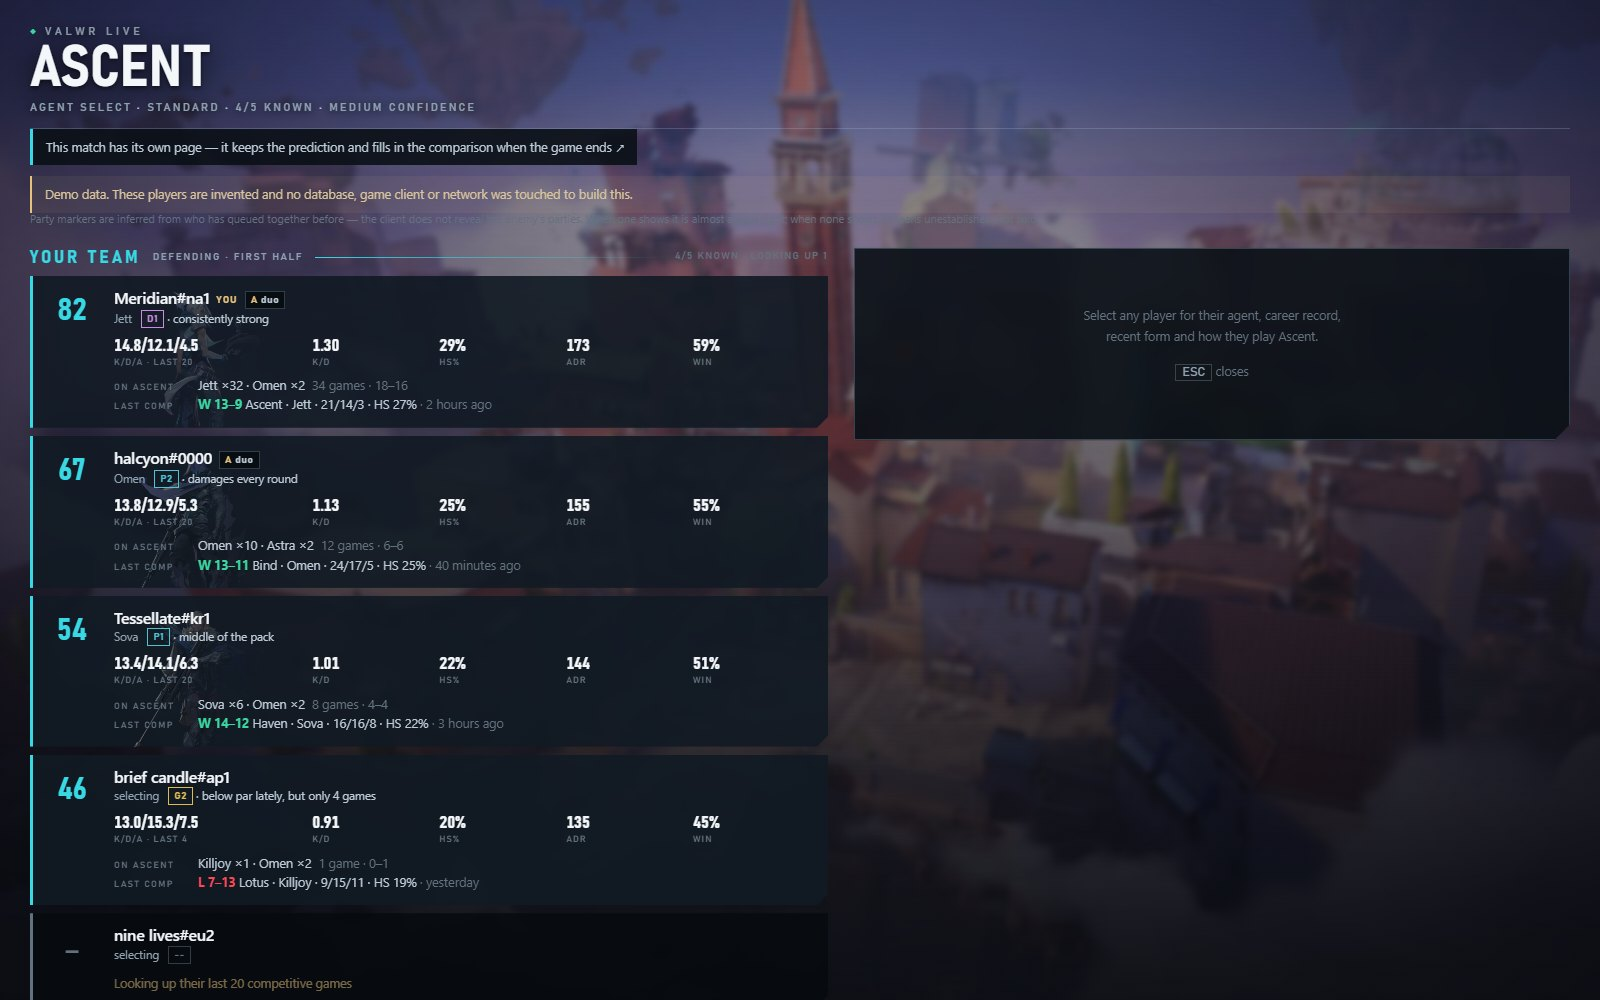
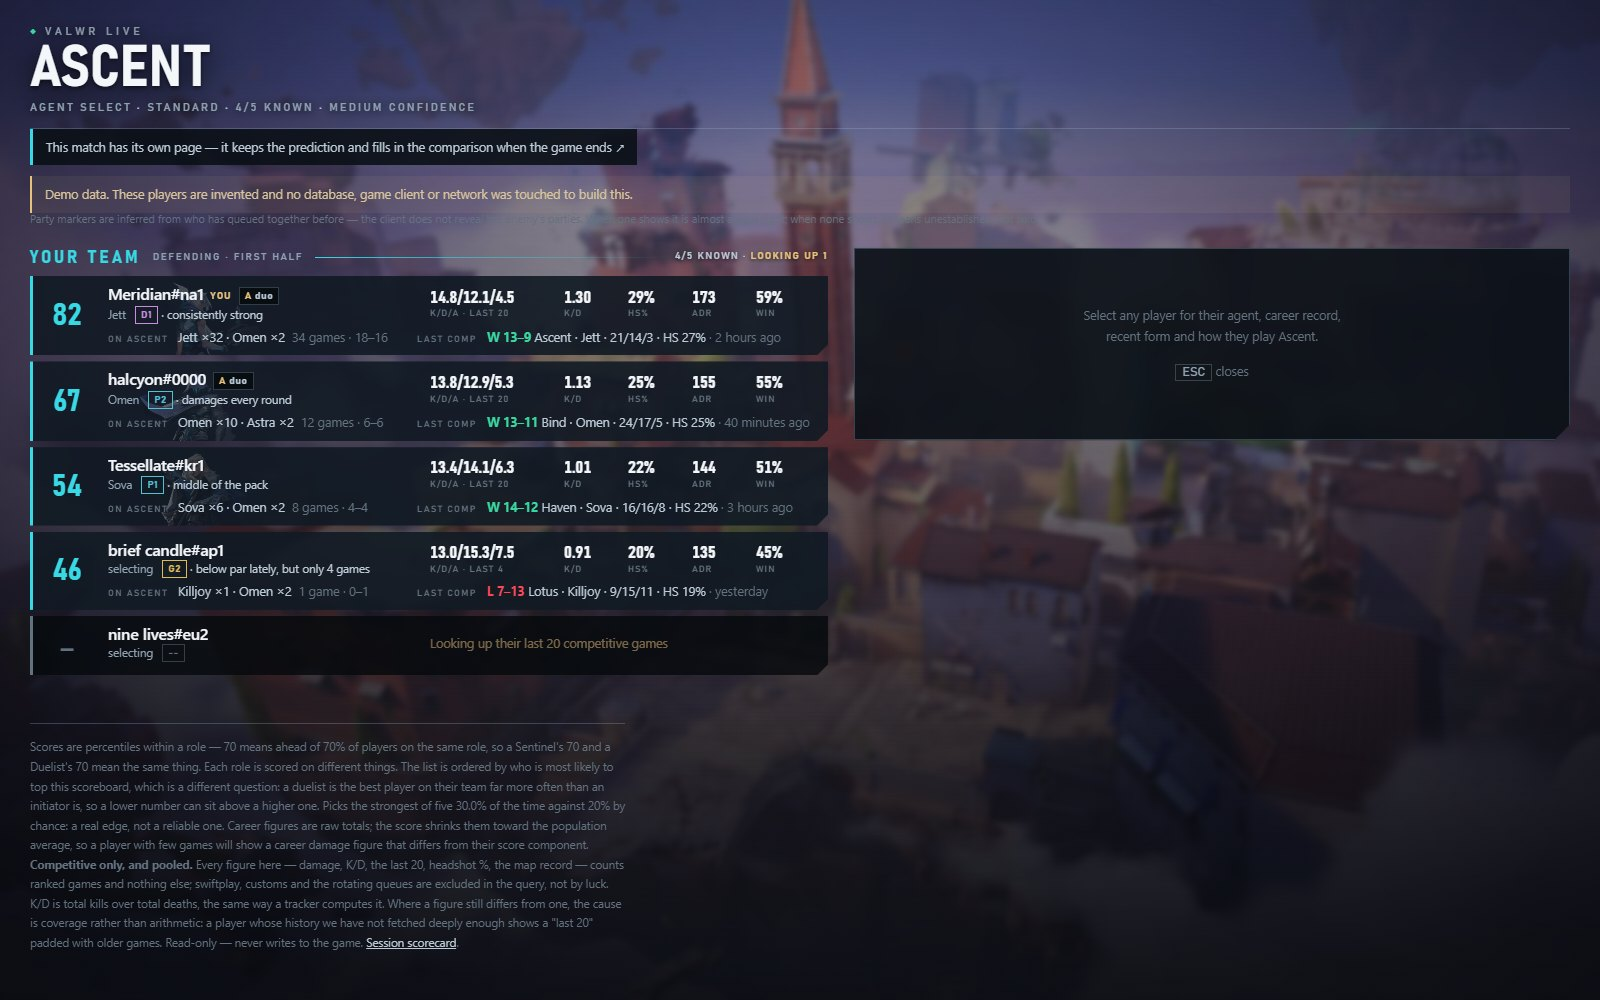
Fit all five agent-select cards on a 1080p screen without scrolling
Each card stacked every line and ran 152px, so the fifth player sat 56px
below the fold of a maximised 1920x1080 browser -- in the minute there
is to lock in, the one place a scroll costs something.

A card is now two rows: who they are beside their last-20 numbers, then
this map beside their last game. 80px a card; all five end 675px down
the page, inside a 1080p window with 275px to spare, and inside 800px
with room for a bookmarks bar or a window not quite maximised. The
numbers sit in fixed columns, so K/D on one card is directly above K/D
on the next and a column reads straight down. A player still being
looked up shows that where their numbers will appear, at the same width.

Two things the layout work turned up:

- The team bar's "looking up 1" was the scoreboard's dim grey over the
  brightest part of the map art, and close to invisible. In agent select
  it is light, shadowed, and gold while anyone is still loading.
- On narrow screens a scoreboard rule pinned every stat cell to one row,
  which collapsed a card's five numbers into one line with two 20px
  columns. The card grid now places its own cells.

tools/capture_dashboard.py refuses to capture if all five stop fitting a
1920x800 or 2560x1300 window, or if anything on a card is clipped at any
width it checks; test/test_layout_fit.py runs the same check in a real
browser, and skips where there is none, as in CI.

Changed region(s): [[0.0, 0.279, 0.5312, 0.992], [0.4375, 0.248, 0.5, 0.31], [0.4375, 0.806, 0.4688, 0.837]]

diff --git a/valwr/dash/static/index.html b/valwr/dash/static/index.html
@@ -351,11 +351,26 @@ table.pstats td.mute,.pstats .mute{color:var(--ghost)}
 
 /* ---------- agent select: one card per teammate --------------------------
    About a minute to lock in, and the enemy is not visible yet, so the screen
-   goes to the people on your side with every number showing at once. */
-.cards{display:grid;gap:8px}
-.pcard{position:relative;display:grid;grid-template-columns:70px minmax(0,1fr);
-  gap:0 14px;align-items:start;width:100%;text-align:left;border:0;
-  padding:13px 16px 13px 0;background:var(--steel-2);color:inherit;font:inherit;
+   goes to the people on your side with every number showing at once -- all
+   five of them, without scrolling. A card is two rows: who they are beside
+   their last-20 numbers, then this map beside their last game. The numbers
+   sit in the same place on every card, so a column reads straight down.
+
+   The first version stacked everything and ran 152px a card, which put the
+   fifth player below the fold of a maximised 1080p browser.
+   tools/capture_dashboard.py now refuses to capture if all five stop fitting
+   a 1920x800 or 2560x1300 window, or if anything on a card is clipped. */
+.cards{display:grid;gap:6px}
+/* The status line over the art, where the scoreboard's grey label vanished
+   into the brightest part of the map. "Looking up" is what a reader is waiting
+   on in agent select, so it takes the colour of the card still loading. */
+.pregame .tcount{color:var(--bone-dim);text-shadow:0 1px 4px rgba(0,0,0,.9)}
+.pregame .tcount .pend{color:var(--gold);font-weight:700}
+.pcard{position:relative;display:grid;
+  grid-template-columns:62px minmax(0,1fr) auto;
+  grid-template-areas:"score who stats" "score info info";
+  align-items:center;gap:4px 16px;width:100%;text-align:left;border:0;
+  padding:9px 18px 9px 0;background:var(--steel-2);color:inherit;font:inherit;
   cursor:pointer;overflow:hidden;
   clip-path:polygon(0 0,100% 0,100% calc(100% - 11px),calc(100% - 11px) 100%,0 100%);
   transition:background .14s ease}
@@ -370,26 +385,42 @@ table.pstats td.mute,.pstats .mute{color:var(--ghost)}
 .pcard:focus-visible{outline:2px solid var(--gold);outline-offset:2px}
 .pcard.unknown{background:var(--sunk)}
 .pcard.unknown .art{opacity:.13;filter:grayscale(1)}
-.pcard .score{padding-top:6px}
+.pcard .score{grid-area:score;padding-left:12px}
 .atkc .pcard.known .score{color:var(--atk)}
 .defc .pcard.known .score{color:var(--def)}
-.cbody{position:relative;min-width:0}
-.cstats{display:grid;grid-template-columns:1.6fr repeat(4,minmax(0,1fr));
-  gap:8px;margin:10px 0 9px}
+.cwho{grid-area:who;position:relative;min-width:0}
+/* Fixed columns, so K/D on one card sits directly above K/D on the next. */
+.cstats{grid-area:stats;position:relative;display:grid;
+  grid-template-columns:124px repeat(4,54px);gap:10px}
 .cstats .st{text-align:left}
-.cline{font-size:12.5px;line-height:1.55;color:var(--bone-dim);
+.cinfo{grid-area:info;position:relative;min-width:0;display:grid;
+  grid-template-columns:minmax(0,1fr) minmax(0,1.35fr);gap:18px}
+/* In place of the numbers, at the numbers' width, so the column holds. */
+.cmsg{grid-area:stats;position:relative;width:380px;white-space:normal}
+.cline{font-size:12.5px;line-height:1.5;color:var(--bone-dim);
   white-space:nowrap;overflow:hidden;text-overflow:ellipsis}
-.cline .ck{display:inline-block;min-width:84px;font:600 9px/1 var(--display);
+.cline .ck{display:inline-block;min-width:70px;font:600 9px/1 var(--display);
   letter-spacing:.16em;text-transform:uppercase;color:var(--ghost)}
 .cline .w{color:var(--win)}
 .cline .l{color:var(--val)}
 .cline .dim,.cline.dim{color:var(--ghost)}
-.cline.looking{color:var(--gold);margin-top:10px;animation:looking 1.2s ease-in-out infinite}
+.cline.looking{color:var(--gold);animation:looking 1.2s ease-in-out infinite}
 @keyframes looking{50%{opacity:.45}}
 @media(prefers-reduced-motion:reduce){.cline.looking{animation:none}}
-@media(max-width:720px){
-  .pcard{grid-template-columns:50px minmax(0,1fr);padding-right:12px}
-  .cstats{grid-template-columns:repeat(3,minmax(0,1fr))}
+/* Below a desktop width the row cannot hold both columns: fold it, the same
+   way the scoreboard row folds, rather than squeezing every name to nothing. */
+@media(max-width:900px){
+  .pcard{grid-template-columns:50px minmax(0,1fr);
+    grid-template-areas:"score who" "stats stats" "info info";
+    gap:7px 12px;padding-right:12px}
+  .pcard .score{padding-left:6px}
+  .cstats{grid-template-columns:repeat(3,minmax(0,1fr));gap:6px 10px;
+    padding-left:12px}
+  /* The scoreboard's phone rule pins every .st to its row's second line;
+     on a card that collapsed five stats into one row with two 20px columns. */
+  .cstats .st{grid-row:auto}
+  .cinfo{grid-template-columns:minmax(0,1fr);gap:2px;padding-left:12px}
+  .cmsg{width:auto;padding-left:12px}
   .cline{white-space:normal}
 }
 
@@ -687,9 +718,10 @@ function cardHTML(p, pending, mapName){
        player whose lookup has not landed yet would be wrong for a few seconds
        in almost every lobby. */
     body = pending
-      ? `<div class="cline looking">Looking up their last 20 competitive games</div>`
-      : `<div class="cline dim" style="margin-top:10px">No competitive history
-           found: a new account, or one that has not played ranked.</div>`;
+      ? `<div class="cline looking cmsg">Looking up their last 20 competitive
+           games</div>`
+      : `<div class="cline dim cmsg">No competitive history found: a new
+           account, or one that has not played ranked.</div>`;
   } else {
     const m = d.map || {}, f = (d.form || [])[0];
     const agents = (m.agents || []).slice(0, 3)
@@ -714,9 +746,11 @@ function cardHTML(p, pending, mapName){
         ${stat("adr", r ? n0(r.adr) : "—")}
         ${stat("win", r ? pc0(r.win_rate) : "—")}
       </div>
-      <div class="cline"><span class="ck">On ${esc(m.name || mapName || "this map")
-        }</span>${mapLine}</div>
-      <div class="cline"><span class="ck">Last comp</span>${lastLine}</div>`;
+      <div class="cinfo">
+        <div class="cline"><span class="ck">On ${esc(m.name || mapName || "this map")
+          }</span>${mapLine}</div>
+        <div class="cline"><span class="ck">Last comp</span>${lastLine}</div>
+      </div>`;
   }
   return `<button class="pcard ${known ? "known" : "unknown"}${
       selected === p.puuid ? " sel" : ""}" data-puuid="${esc(p.puuid)}"
@@ -724,14 +758,14 @@ function cardHTML(p, pending, mapName){
     ${p.agent_id ? `<img class="art" src="${artURL(p, "row")}" alt=""
         decoding="async" onerror="this.remove()">` : ""}
     <div class="score">${known ? esc(p.score) : '<span class="u">—</span>'}</div>
-    <div class="cbody">
+    <div class="cwho">
       <div class="nm">${esc(p.name)}${p.is_you ? '<span class="tag">YOU</span>' : ""}${
         partyTag(p.puuid)}${
         p.flag ? '<span class="alert" title="irregularity flagged">◆</span>' : ""}</div>
       <div class="rs"><span class="ag">${esc(p.agent || "selecting")}</span>
         ${rankTag(p.rank)}${known ? `&nbsp;·&nbsp;${esc(p.reason)}` : ""}</div>
-      ${body}
     </div>
+    ${body}
   </button>`;
 }
 
@@ -740,16 +774,16 @@ function pregameHTML(s){
   const players = s.players.filter(p => p.team === team);
   const pending = new Set((s.lookup && s.lookup.pending) || []);
   const known = players.filter(p => p.score !== null).length;
-  const left = pending.size ? `looking up ${pending.size}`
-    : s.lookup && s.lookup.remaining ? "filling in last 20s" : "all looked up";
+  const left = pending.size ? `<b class="pend">looking up ${pending.size}</b>`
+    : esc(s.lookup && s.lookup.remaining ? "filling in last 20s" : "all looked up");
   const side = s.standard_mode ? (isAtk(team) ? "attacking · first half"
                                              : "defending · first half") : "";
-  return `<section class="team ${isAtk(team) ? "atkc" : "defc"}">
+  return `<section class="team pregame ${isAtk(team) ? "atkc" : "defc"}">
     <div class="tbar">
       <span class="tname">Your team</span>
       <span class="tside">${esc(side)}</span>
       <span class="trule"></span>
-      <span class="tcount">${known}/${players.length} known · ${esc(left)}</span>
+      <span class="tcount">${known}/${players.length} known · ${left}</span>
     </div>
     <div class="cards">${players.map(p =>
       cardHTML(p, pending.has(p.puuid), s.map)).join("")}</div>

diff --git a/tools/capture_dashboard.py b/tools/capture_dashboard.py
@@ -124,6 +124,50 @@ def check_layout(browser, url: str) -> list[str]:
     return problems
 
 
+# Agent select allows about a minute to lock in, which is no time to scroll
+# for the fifth player. A maximised browser on a 1920x1080 monitor has about
+# 950px of height; 800 leaves room for a bookmarks bar, a window that is not
+# quite maximised, or a little zoom.
+FIT_VIEWPORTS = ((1920, 800), (2560, 1300))
+
+
+def check_agent_select(browser, url: str) -> list[str]:
+    """All five teammates inside the window, and nothing on a card clipped.
+
+    The first agent-select layout stacked every line of a card and ran 152px
+    each, which put the fifth player 56px below a maximised 1080p window.
+    """
+    problems = []
+    for width, height in FIT_VIEWPORTS:
+        page = browser.new_page(viewport={"width": width, "height": height},
+                                **CSP)
+        page.goto(url + "?clean&phase=pregame")
+        settle(page, "button.pcard")
+        got = page.evaluate("""() => {
+          const cards = [...document.querySelectorAll('button.pcard')];
+          return {n: cards.length, bottom: Math.max(
+            ...cards.map(e => e.getBoundingClientRect().bottom))};
+        }""")
+        if got["n"] != 5:
+            problems.append(f"{width}x{height}: {got['n']} agent-select cards, "
+                            f"expected the whole team of 5")
+        elif got["bottom"] > height:
+            problems.append(f"{width}x{height}: agent select runs "
+                            f"{got['bottom'] - height:.0f}px past the window")
+        page.close()
+    for width in CHECK_WIDTHS:
+        page = browser.new_page(viewport={"width": width, "height": 950}, **CSP)
+        page.goto(url + "?clean&phase=pregame")
+        settle(page, "button.pcard")
+        clipped = page.evaluate("""() => [...document.querySelectorAll(
+            '.pcard .nm, .pcard .rs, .pcard .cline, .pcard .st b, .pcard .st span'
+          )].filter(e => e.scrollWidth > e.clientWidth + 1).length""")
+        if clipped:
+            problems.append(f"{width}px: {clipped} agent-select line(s) clipped")
+        page.close()
+    return problems
+
+
 def launch(p):
     for channel in ("chrome", "msedge"):
         try:
@@ -169,13 +213,15 @@ def main(argv=None) -> int:
 
     with sync_playwright() as p:
         browser = launch(p)
-        problems = check_layout(browser, url)
+        problems = check_layout(browser, url) + check_agent_select(browser, url)
         if problems:
-            print("refusing to capture; names do not fit:")
+            print("refusing to capture:")
             print("\n".join(f"  {m}" for m in problems))
             browser.close()
             httpd.shutdown()
             return 1
+        print("agent select: all five fit "
+              + " and ".join(f"{w}x{h}" for w, h in FIT_VIEWPORTS))
         print(f"layout: nothing clipped, and every name has at least "
               f"{MIN_NAME_PX}px, at "
               f"{', '.join(map(str, CHECK_WIDTHS))}px")

diff --git a/test/test_layout_fit.py b/test/test_layout_fit.py
@@ -1,0 +1,43 @@
+"""Agent select has to fit on screen, all five players, without scrolling.
+
+Measured in a real browser on the real page, because a layout can only be
+checked by laying it out: the first agent-select version passed every
+content check there was and still put the fifth player below the fold of a
+maximised 1080p window. Needs playwright and an installed Chrome or Edge, so
+it skips in CI and runs wherever the dashboard is developed.
+"""
+
+from __future__ import annotations
+
+import importlib.util
+import pathlib
+
+import pytest
+
+ROOT = pathlib.Path(__file__).resolve().parent.parent
+
+
+def _tool(name: str):
+    spec = importlib.util.spec_from_file_location(name, ROOT / "tools" / f"{name}.py")
+    module = importlib.util.module_from_spec(spec)
+    spec.loader.exec_module(module)
+    return module
+
+
+def test_agent_select_fits_the_window_and_clips_nothing(tmp_path):
+    sync_api = pytest.importorskip("playwright.sync_api")
+    capture = _tool("capture_dashboard")
+    _tool("build_pages_demo").build(tmp_path / "site", conn=None)
+
+    with sync_api.sync_playwright() as p:
+        try:
+            browser = capture.launch(p)
+        except Exception as e:                          # noqa: BLE001
+            pytest.skip(f"no browser to lay the page out in: {e}")
+        httpd, url = capture.serve(tmp_path / "site")
+        try:
+            problems = capture.check_agent_select(browser, url)
+        finally:
+            browser.close()
+            httpd.shutdown()
+    assert not problems, "\n".join(problems)

diff --git a/README.md b/README.md
@@ -316,8 +316,8 @@ against others on the same role, damage per round, K/D,
 last-20 K/D and headshot rate, competitive games only; and a card per player
 with their record, form and history on this map.
 
-In agent select the page gives the screen to your own team instead, one card
-per player with everything showing at once: the 0-100 rating, last-20 K/D/A
+In agent select the page gives the screen to your own team instead, all five
+on screen at once without scrolling: the 0-100 rating, last-20 K/D/A
 per game, K/D, headshot rate, damage per round and win rate, the agents they
 play on this map, and their last competitive game. Anyone already in the
 database appears the moment agent select is detected; the rest fill in as
@@ -332,7 +332,7 @@ these images with `python tools/capture_dashboard.py`
 ### Tests
 
 ```bash
-pytest -q                          # 537 tests; needs no .env, model or database
+pytest -q                          # 538 tests; needs no .env, model or database
 python tools/audit.py              # re-derives documented claims, reports drift
 ```
 

diff --git a/docs/DASHBOARD.md b/docs/DASHBOARD.md
@@ -127,6 +127,12 @@ as it does; teammates are looked up before your own account. A player whose
 lookup has finished with nothing to find says *No competitive history*,
 which is a different thing and is never shown early.
 
+Each card is two rows -- who they are beside their numbers, then this map
+beside their last game -- so all five fit a maximised 1080p browser without
+scrolling, and the numbers sit in the same columns on every card. A test lays
+the page out in a real browser and fails if the fifth player ever drops below
+a 1920x800 or 2560x1300 window again.
+
 Clicking a card still opens the full breakdown in the side panel.
 
 ### The two teams
